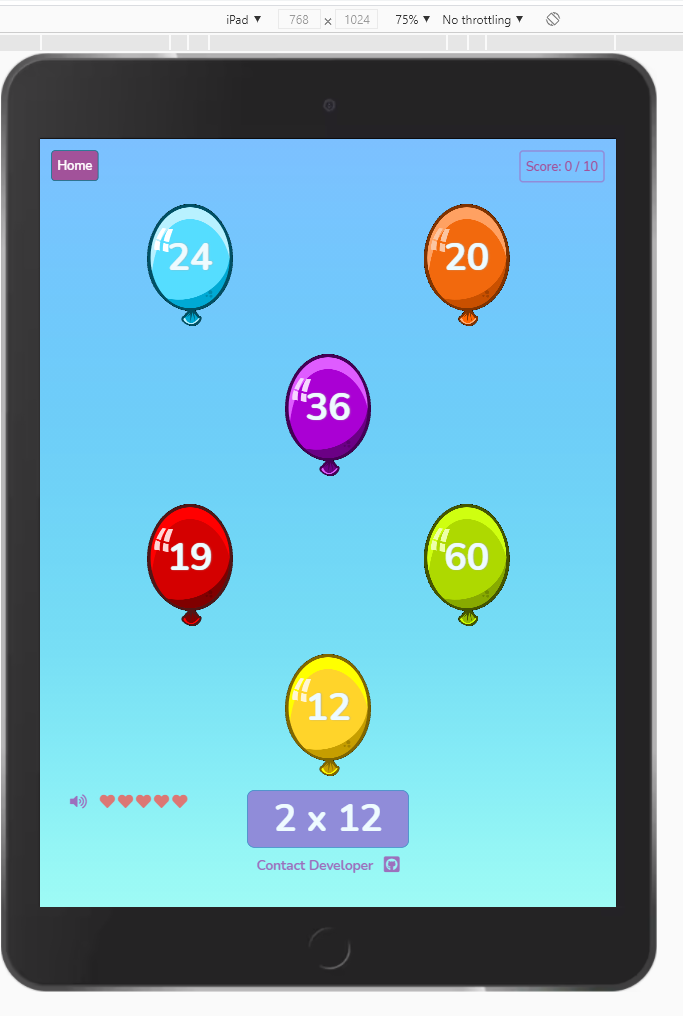
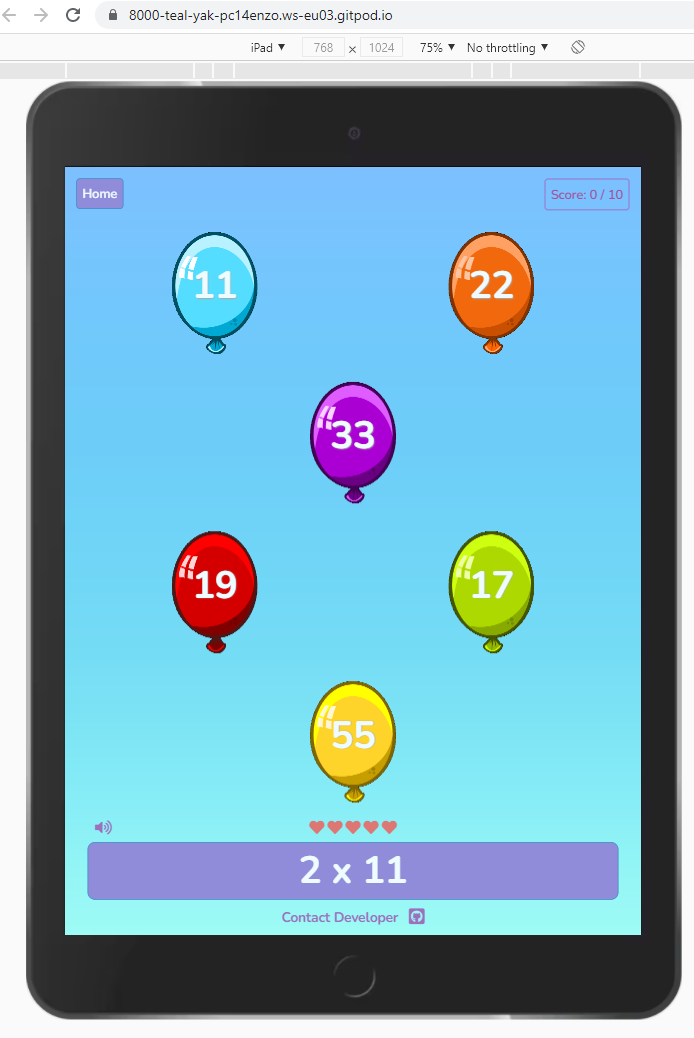
bootstrap classes updated on game controls, media queries updated, iPad responsive testing screen print updated

diff --git a/index.html b/index.html
@@ -312,9 +312,9 @@
                     </div>
                 </div>
             </div>
-            <!-- Game Controls - 3 columns, stacked on small devices -->
+            <!-- Game Controls - 3 columns, stacked on small and medium devices -->
             <div class="row game-section-controls p-0 m-0">
-                <div class="col-md-4">
+                <div class="col-lg-4">
                     <div class="row">
                         <div id="audio-controls" class="col-2">
                             <i id="mute" class="fas fa-volume-up"></i>
@@ -329,10 +329,10 @@
                         <div class="col-2"></div>
                     </div>
                 </div>
-                <div class="col-md-4">
+                <div class="col-lg-4">
                     <div id="question">10 x 10</div>                
                 </div>
-                <div class="col-md-4">
+                <div class="col-lg-4">
                 </div>
             </div>
         </div>

diff --git a/testing.html b/testing.html
@@ -319,9 +319,9 @@
                     </div>
                 </div>
             </div>
-            <!-- Game Controls - 3 columns, stacked on small devices -->
+            <!-- Game Controls - 3 columns, stacked on small and medium devices -->
             <div class="row game-section-controls p-0 m-0">
-                <div class="col-md-4">
+                <div class="col-lg-4">
                     <div class="row">
                         <div id="audio-controls" class="col-2">
                             <i id="mute" class="fas fa-volume-up"></i>
@@ -336,10 +336,10 @@
                         <div class="col-2"></div>
                     </div>
                 </div>
-                <div class="col-md-4">
+                <div class="col-lg-4">
                     <div id="question">10 x 10</div>                
                 </div>
-                <div class="col-md-4">
+                <div class="col-lg-4">
                 </div>
             </div>
         </div>

diff --git a/assets/css/style.css b/assets/css/style.css
@@ -485,23 +485,6 @@ body {
     }
  }
 
-/*-- Media query to re-size balloon canvas and text elements for medium devices over 768px wide --*/
- @media (min-width: 768px) {
-    .canvas-balloon {
-        min-height: 20rem;
-    }
-    .canvas-balloon canvas {
-        width: 20rem;
-        height: 20rem;
-    }
-    .balloon-answer-text {
-        font-size: 5rem;
-        line-height: 18rem;
-        width: 20rem;
-        height: 20rem;
-    }
-}
-
 /*-- Media query to re-size balloon canvas and text elements for large devices over 992px wide --*/
  @media (min-width: 992px) {
     .canvas-balloon {
